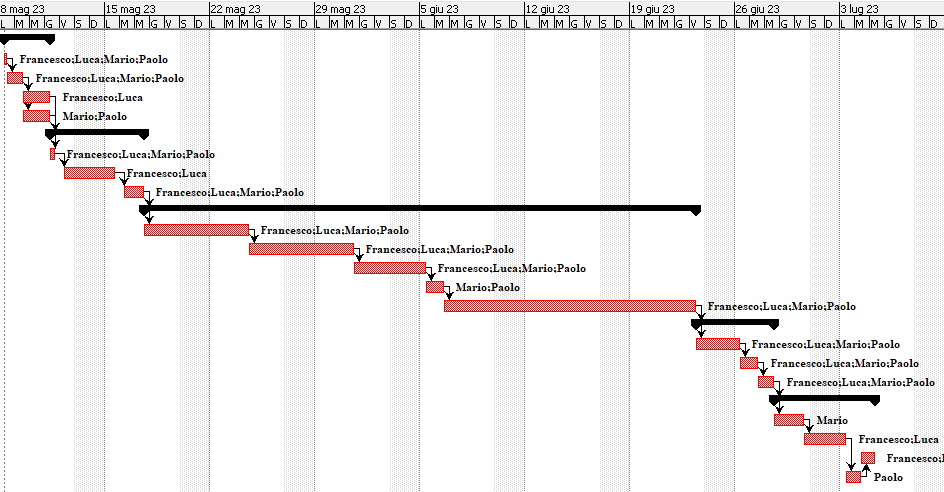
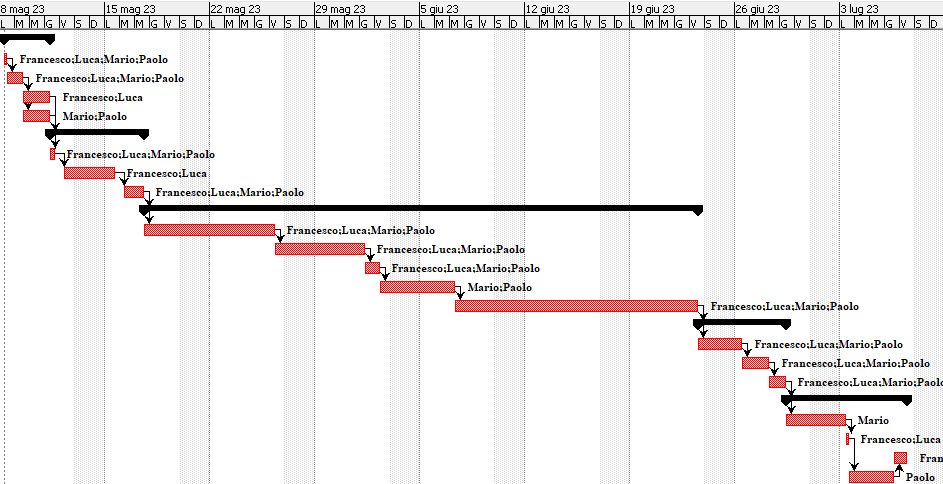
Effort changes and some explainations added

diff --git a/EstimationV2.md b/EstimationV2.md
@@ -9,20 +9,22 @@ Consider the EZWallet  project in FUTURE version (as proposed by the team), assu
 
 For these estimations we are considering only the new part of the project that has to be implemented without contemplate the part already implemented in the first version. Moreover in these previsions for the coding part we are appraising, for simplicity, that the back-end is unique for web, android and iOS application without considering the native development part for android and iOS and the integration part with their respective APIs.
 
+For the estimate of the effort, due to our lack of experience, we are based on the proportions between the different parts and their importance at the time level. 
+
 # Estimate by size
 ### 
 
 
 |             | Estimate                        |             
 | ----------- | ------------------------------- |  
-| NC =  Estimated number of modules to be developed   | 100 |    
-| A = Estimated average size per class, in LOC        | 32 LOC/NC | 
+| NC =  Estimated number of modules to be developed   | 80 |
+| A = Estimated average size per class, in LOC        | 40 LOC/NC | 
 | S = Estimated size of project, in LOC (= NC * A)    | 3200 LOC |
 | E = Estimated effort, in person hours (here use productivity 10 LOC per person hour)  | 320 ph |   
 | C = Estimated cost, in euro (here use 1 person hour cost = 30 euro) | 9600 EUR | 
 | Estimated calendar time, in calendar weeks (Assume team of 4 people, 8 hours per day, 5 days per week ) | 2 week |               
 
-For the number of modules was chosen the number of functions.
+For the number of modules was chosen the number of functions. For the functions we have considered approximatively 40 for the back-end and 40 for the front-end.
 
 # Estimate by product decomposition
 ### 
@@ -63,7 +65,7 @@ For the number of modules was chosen the number of functions.
             3.2.1 Web frontend development
             3.2.2 Android frontend development
             3.2.3 iOS frontend development
-        3.3 API development
+        3.3 API development (email and ads services)
         3.4 Component integration
         3.5 Code verification
 
@@ -96,9 +98,9 @@ For the number of modules was chosen the number of functions.
 | User interface design | 32 ph |
 | Database design | 60 ph |
 | Development | |
-| Backend Development | 160 ph |
-| Frontend Development | 160 ph |
-| API development | 80 ph |
+| Backend Development | 200 ph |
+| Frontend Development | 130 ph |
+| API development | 30 ph |
 | Component integration | 50 ph |
 | Code verification | 400 ph |
 | Testing | |
@@ -111,12 +113,16 @@ For the number of modules was chosen the number of functions.
 | Conduct system integration testing | 24 ph |
 | Deploy the application | 8 ph |
 | Maintenance and support | - ongoing - |
-| Provide technical support | 24 ph/week |
-| Fix bugs and troubleshoot issues | 32 ph/month |
-| Implement updates and upgrades | - |
-| TOT | 1240 ph |
+| Provide technical support | 20 ph/week |
+| Fix bugs and troubleshoot issues | 80 ph/month |
+| Implement updates and upgrades | n.d. |
+| TOT | 1200 ph |
 
-For this estimation we have insert also the deployment and the maintanance and support parts to give an image of the entire development of the application.
+For this estimation we have insert also the deployment and the maintanance and support parts to give an image of the entire development of the application. 
+
+We added the maintenance part to give a picture of the entire process, but we don't consider that for the total amout of the effort for the estimation. For the technical support we have considered half day of work for all week and for the fix bugs and troubleshoot part we have considered 20 ph of work for week. 
+The implement updates and upgrades part is not defined because we don't contemplate new versions for the continuation in the future of the application.
+
 
 ### Gantt chart
 
@@ -134,4 +140,4 @@ The estimation by activity decomposition, as that with product decomposition, ta
 | ----------- | ------------------------------- | --------------- |
 | estimate by size | 320 ph | 2 weeks |
 | estimate by product decomposition | 1138 ph | 7,11 weeks |
-| estimate by activity decomposition | 1240 ph | 8,4 weeks |
+| estimate by activity decomposition | 1200 ph | 9 weeks |
